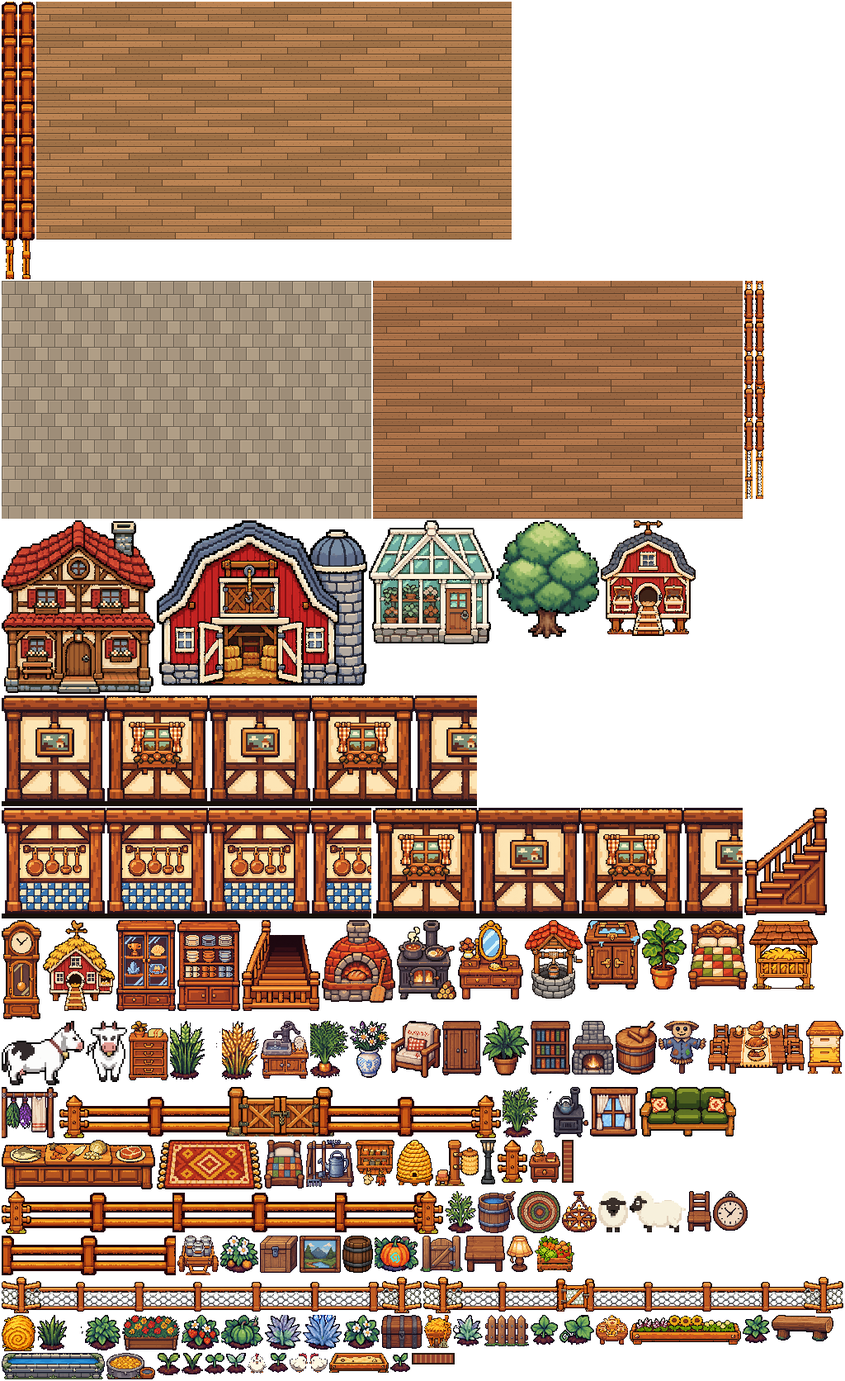
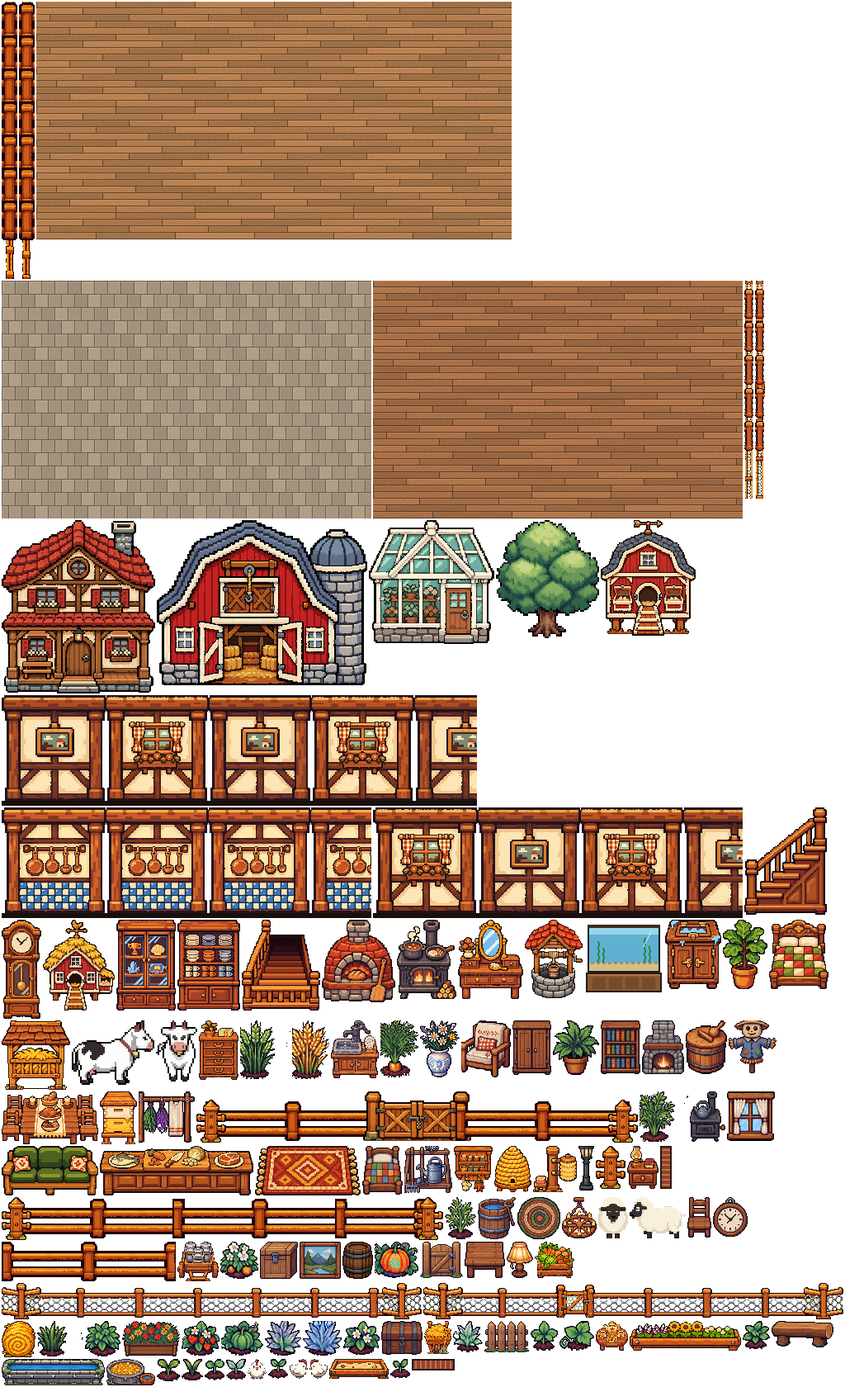
Gia viên: Quản gia bán ô ruộng / bể cá, ruộng 48 ô, bể cá phòng khách
- NPC Quản gia ở khuôn viên mở cửa hàng Gia viên (giá thử): mở thêm 4 ô ruộng, bể cá trong nhà; nhà / đồ vật chờ chốt giá.
- Ruộng 8×6 = 48 ô theo FARM_LAYOUT, mở sẵn 12 ô; client vẽ ô chưa mở, bấm / E theo lưới mới.
- Bể cá phòng khách (hình tạm vẽ bằng code): thả / lấy cá từ kho, cá bơi trong bể, cá trong bể không bị bán.
- Máy chủ: thao tác buy / tank / untank, ô ruộng theo số đã mở; farm.test phủ mua, thả, lấy, chặn sai chỗ.
- Mẫu tin giao thức farm cho bộ vector; xuất lại dữ liệu sim / client, nhập Unity.

Claude-Session: https://claude.ai/code/session_01BAraZUAwW4rMfvXhAWSFDp

diff --git a/apps/server/src/farm.ts b/apps/server/src/farm.ts
@@ -1,5 +1,5 @@
 import {randomInt,randomUUID} from 'node:crypto';
-import {FARM_CROPS,FARM_FISH,FARM_LAYOUT,FARM_ROOMS,FARM_WARDROBE,POND_MAP,chooseFarmFish,growPlot,plotPoint,pondSpotNear,type FarmRoom,type FarmState} from '@havenlord/sim/farm';
+import {FARM_CROPS,FARM_FISH,FARM_LAYOUT,FARM_ROOMS,FARM_SHOP,FARM_TANK,FARM_WARDROBE,POND_MAP,chooseFarmFish,growPlot,plotPoint,pondSpotNear,shopPrice,type FarmRoom,type FarmState} from '@havenlord/sim/farm';
 import {STORY} from '@havenlord/sim/story/story';
 import {VILLAGE_SHOP} from '@havenlord/sim/village';
 import type {ServerMessage} from '@havenlord/protocol';
@@ -70,6 +70,27 @@ export class Farm {
      const item=VILLAGE_SHOP.find(x=>x.id===raw.item);const npc=this.roster().find(n=>n.id===item?.npc);if(!item||!npc||at.map!=='human/town'||!near(npc.x,npc.y,160))throw new Error('Hãy tới đúng quầy hàng');if(coins<item.coins)throw new Error('Không đủ xu');return{value:null,coins:coins-item.coins,...('potions'in item?{potions:item.potions}:{buff:true})};
     }
     if(!s.unlocked||!farmMaps(account).includes(at.map))throw new Error('Chỉ chủ nhà được thao tác trong Gia viên đã mở');
+    if(op==='buy'){
+     // Cửa hàng Quản gia (đứng ở khuôn viên): mở ô ruộng / mua bể cá; máy chủ trừ xu và ghi đồ đã có trong cùng một giao dịch.
+     if(at.map!==homeMap(account)||!near(FARM_LAYOUT.stewardX,FARM_LAYOUT.stewardY,130))throw new Error('Hãy tới gặp Quản gia ở khuôn viên');
+     const it=FARM_SHOP.find(x=>x.id===raw.item);if(!it)throw new Error('Quản gia không bán món này');
+     const owned=s.owned??(s.owned=[]);
+     if(it.id==='plots'&&s.plots.length>=FARM_LAYOUT.plotsMax)throw new Error('Ruộng đã mở hết');
+     if(it.id==='tank'&&owned.includes('tank'))throw new Error('Bạn đã có bể cá');
+     const price=shopPrice(it.id,s);if(coins<price)throw new Error('Không đủ xu');
+     if(it.id==='plots')for(let k=0;k<4;k++)s.plots.push({tilled:false,crop:null,plantedAt:0,lastAt:0,growth:0,watered:false});
+     else owned.push(it.id);
+     return{value:null,coins:coins-price};
+    }
+    if(op==='tank'||op==='untank'){
+     if(!(s.owned??[]).includes('tank'))throw new Error('Hãy mua bể cá ở chỗ Quản gia trước');
+     // Bể cá ở phòng khách: thả cá trong kho vào bể (tối đa FARM_TANK.slots con) hoặc lấy lại về kho; cá trong bể không bị bán.
+     if(at.map!==roomMap(account,'house')||!near(FARM_TANK.x,FARM_TANK.y))throw new Error('Hãy tới bể cá trong phòng khách');
+     const tank=s.tank??(s.tank=[]);
+     if(op==='tank'){const f=FARM_FISH.find(x=>x.id===raw.item);const key=`fish_${f?.id}`;if(!f||!((s.inventory[key]??0)>0))throw new Error('Kho không có con cá này');if(tank.length>=FARM_TANK.slots)throw new Error('Bể đã đầy');s.inventory[key]=(s.inventory[key]??0)-1;tank.push(f.id);}
+     else{const i=Number(raw.plot);if(!Number.isInteger(i)||i<0||i>=tank.length)throw new Error('Bể không có con cá này');const [f]=tank.splice(i,1);s.inventory[`fish_${f}`]=(s.inventory[`fish_${f}`]||0)+1;}
+     return{value:null};
+    }
     if(op==='outfit'){if(at.map!==roomMap(account,'bedroom')||!near(...FARM_WARDROBE))throw new Error('Hãy tới tủ quần áo trong phòng ngủ');if(raw.outfit!=='farmer1'&&raw.outfit!=='gardener')throw new Error('Không có bộ đồ này');s.outfit=raw.outfit;return{value:null};}
     const fishing=op==='cast'||op==='pull';if(fishing&&at.map!==POND_MAP)throw new Error('Hãy ra hồ câu cạnh khuôn viên');if(!fishing&&at.map!==homeMap(account))throw new Error('Hãy ra khuôn viên trước');
     if(op==='sell'){
@@ -88,7 +109,7 @@ export class Farm {
      if(!pondSpotNear(at.x,at.y))throw new Error('Hãy tới chỗ câu bên bờ hồ');if(s.fish&&this.now()<s.fish.expires)throw new Error('Bạn đang câu cá');
      const biteAt=this.now()+3000+Math.floor(this.random()*9001);s.fish={nonce:randomUUID(),biteAt,expires:biteAt+1800,reward:chooseFarmFish(this.now(),this.random())};s.lastAction=this.now();return{value:null};
     }
-    const i=Number(raw.plot);if(!Number.isInteger(i)||i<0||i>=12)throw new Error('Ô ruộng không hợp lệ');const point=plotPoint(i);if(!near(point.x,point.y,105))throw new Error('Hãy tới gần ô ruộng');const p=s.plots[i]!;growPlot(p,this.now());
+    const i=Number(raw.plot);if(!Number.isInteger(i)||i<0||i>=s.plots.length)throw new Error('Ô ruộng chưa mở hoặc không hợp lệ');const point=plotPoint(i);if(!near(point.x,point.y,105))throw new Error('Hãy tới gần ô ruộng');const p=s.plots[i]!;growPlot(p,this.now());
     if(op==='hoe'){if(p.crop)throw new Error('Ô này đang có cây');p.tilled=true;}
     else if(op==='plant'){const c=FARM_CROPS.find(x=>x.id===raw.crop);if(!p.tilled||p.crop||!c)throw new Error('Cần ô đất đã xới và chưa có cây');const key=`seed_${c.id}`;if(!((s.inventory[key]??0)>0))throw new Error('Bạn hết hạt giống này');s.inventory[key]=(s.inventory[key]??0)-1;Object.assign(p,{crop:c.id,plantedAt:this.now(),lastAt:this.now(),growth:0,watered:false});}
     else if(op==='water'){if(!p.crop)throw new Error('Hãy gieo cây trước');p.watered=true;}

diff --git a/packages/sim/src/farm.ts b/packages/sim/src/farm.ts
@@ -19,7 +19,7 @@ export const FARM_FISH = [
 ] as const;
 /** Hồ câu là MAP RIÊNG dùng chung `home/pond` (chủ dự án 12/11: "Hồ câu cá là một map bên cạnh … câu cùng bạn bè"): cổng ở mép nam
  * khuôn viên (`pondGate*`), trong map hồ có cổng về (`pondBack*`) và các chỗ câu dọc bờ tây + đầu cầu (nước ở phía đông người câu). */
-export const FARM_LAYOUT = {tile:32,width:48,height:32,plots:12,plotX:192,plotY:320,doorX:576,doorY:264,exitX:832,exitY:416,
+export const FARM_LAYOUT = {tile:32,width:48,height:32,plots:12,plotsMax:48,plotCols:8,plotX:352,plotY:544,stewardX:780,stewardY:470,doorX:576,doorY:264,exitX:832,exitY:416,
  pondGateX:240,pondGateY:960,pondBackX:96,pondBackY:352,
  pondSpots:[[360,192],[360,288],[480,352],[360,448],[360,544]] as readonly (readonly [number,number])[]};
 export const POND_MAP='home/pond';
@@ -32,14 +32,28 @@ export const FARM_ROOMS = {
  bedroom:{house:[416,358]},
 } as const;
 export const FARM_WARDROBE = [332,158] as const;
+/** Bể cá — món trang trí trong nhà (chủ dự án 12/11: "Bể cá cũng là trang trí trong nhà nhé"): đặt ở phòng khách, thả cá đã câu từ kho
+ * vào để ngắm / sưu tầm, lấy lại được. `water` = vùng nước tính từ chân bể (neo giữa đáy) để client cho cá bơi. Hình bể tạm vẽ bằng code
+ * (`scripts/export-home-maps.mts`), thay bằng hình GPT khi có. */
+export const FARM_TANK = {room:'house',x:492,y:328,slots:6,water:{x0:-38,x1:38,y0:-70,y1:-36}} as const;
+/**
+ * Cửa hàng Gia viên của NPC Quản gia đứng ở khuôn viên (chủ dự án 12/11: "1 npc ở gia viên để mua đồ đạc: mua nhà, mua đồ vật, mua bể cá",
+ * "chỗ trồng cây gia viên nữa cần rộng còn mở ô đất nữa"). GIÁ THỬ — chủ dự án chưa chốt giá; nhà / đồ vật chưa mở bán (chờ chốt giá
+ * và cách đặt đồ). Mở ô ruộng: mỗi lần +4 ô, giá tăng dần theo số lần đã mở.
+ */
+export const FARM_SHOP = [
+ {id:'plots',name:'Mở thêm 4 ô ruộng',coins:150,step:50},
+ {id:'tank',name:'Bể cá trong nhà',coins:500,step:0},
+] as const;
+export function shopPrice(id:string,state:Pick<FarmState,'plots'>):number{const it=FARM_SHOP.find(x=>x.id===id);if(!it)return Infinity;return id==='plots'?it.coins+it.step*Math.max(0,(state.plots.length-FARM_LAYOUT.plots)/4):it.coins;}
 export type FarmRoom = keyof typeof FARM_ROOMS;
 /** Chỗ câu gần nhất trong bán kính `r` px (null = không đứng ở bờ hồ). */
 export function pondSpotNear(x:number,y:number,r=70):readonly [number,number]|null{let best:readonly [number,number]|null=null,d=r;for(const s of FARM_LAYOUT.pondSpots){const k=Math.hypot(x-s[0],y-s[1]);if(k<=d){d=k;best=s;}}return best;}
 export interface FarmPlot {tilled:boolean;crop:string|null;plantedAt:number;lastAt:number;growth:number;watered:boolean}
-export interface FarmState {version:1;visited:string[];unlocked:boolean;plots:FarmPlot[];inventory:Record<string,number>;outfit:'farmer1'|'gardener';fish:{nonce:string;biteAt:number;expires:number;reward:string}|null;lastAction:number;lastEntry?:number}
-export function newFarm():FarmState{return{version:1,visited:[],unlocked:false,plots:Array.from({length:12},()=>({tilled:false,crop:null,plantedAt:0,lastAt:0,growth:0,watered:false})),inventory:{},outfit:'farmer1',fish:null,lastAction:0};}
+export interface FarmState {version:1;visited:string[];unlocked:boolean;plots:FarmPlot[];inventory:Record<string,number>;outfit:'farmer1'|'gardener';fish:{nonce:string;biteAt:number;expires:number;reward:string}|null;lastAction:number;lastEntry?:number;tank?:string[];owned?:string[]}
+export function newFarm():FarmState{return{version:1,visited:[],unlocked:false,plots:Array.from({length:12},()=>({tilled:false,crop:null,plantedAt:0,lastAt:0,growth:0,watered:false})),inventory:{},outfit:'farmer1',fish:null,lastAction:0,tank:[]};}
 export function growPlot(p:FarmPlot,now:number):void {if(!p.crop)return;const c=FARM_CROPS.find(x=>x.id===p.crop);if(!c)return;p.growth=Math.min(c.ms,p.growth+Math.max(0,now-p.lastAt)*(p.watered?1:.5));p.lastAt=Math.max(p.lastAt,now);}
 export function cropStage(p:FarmPlot):number{const c=FARM_CROPS.find(x=>x.id===p.crop);return c?Math.min(3,Math.floor(p.growth/c.ms*4)):0;}
-export function plotPoint(i:number){return{x:FARM_LAYOUT.plotX+(i%4)*32,y:FARM_LAYOUT.plotY+Math.floor(i/4)*32};}
+export function plotPoint(i:number){return{x:FARM_LAYOUT.plotX+(i%FARM_LAYOUT.plotCols)*32,y:FARM_LAYOUT.plotY+Math.floor(i/FARM_LAYOUT.plotCols)*32};}
 export function havenHour(now:number):number{return(now%(48*60000))/(48*60000)*24;}
 export function chooseFarmFish(now:number,roll:number):string{const h=havenHour(now);const list=FARM_FISH.filter(x=>!x.night||h>=20||h<4.5);let n=Math.max(0,Math.min(.999999,roll))*list.reduce((s,x)=>s+x.weight,0);for(const f of list){n-=f.weight;if(n<0)return f.id;}return list[0]!.id;}

diff --git a/apps/server/tests/farm.test.ts b/apps/server/tests/farm.test.ts
@@ -24,7 +24,7 @@ try{
  for(const n of farm.roster()){at={map:'human/town',x:n.x,y:n.y};act('talk',{npc:n.id});}
  assert(store.farm.read(acc).unlocked);assert.equal(Object.values(store.farm.read(acc).inventory).reduce((s,n)=>s+n,0),18);
  act('enter');assert.equal(at.map,homeMap(acc));
- at={map:homeMap(acc),x:192,y:320};act('hoe',{plot:0});assert(store.farm.read(acc).plots[0]!.tilled);
+ at={map:homeMap(acc),x:352,y:544};act('hoe',{plot:0});assert(store.farm.read(acc).plots[0]!.tilled);
  act('plant',{plot:0,crop:'wheat'});assert.equal(store.farm.read(acc).inventory.seed_wheat,2);
  now+=150000;act('harvest',{plot:0});assert(failed());assert.equal(store.farm.read(acc).inventory.farm_wheat,undefined);
  act('water',{plot:0});const watered=store.farm.read(acc).plots[0]!;assert(watered.watered);assert(watered.growth>=75000&&watered.growth<90000);
@@ -50,6 +50,26 @@ try{
  at={map:roomMap(acc,'bedroom'),x:100,y:300};act('outfit',{outfit:'gardener'});assert(failed(),'phải tới tủ');
  at={map:roomMap(acc,'bedroom'),x:332,y:170};act('outfit',{outfit:'gardener'});assert.equal(store.farm.read(acc).outfit,'gardener');
  act('room');assert(failed(),'ra vườn phải qua phòng khách');
+ // Quản gia ở khuôn viên: mở thêm 4 ô ruộng (giá tăng dần), mua bể cá; ô chưa mở không cuốc được; chưa mua bể thì không thả cá.
+ at={map:roomMap(acc,'bedroom'),x:416,y:350};act('go',{room:'house'});at={map:roomMap(acc,'house'),x:492,y:350};act('tank',{item:'crucian'});assert(failed(),'chưa mua bể');
+ at={map:roomMap(acc,'house'),x:320,y:400};act('room');at={map:homeMap(acc),x:352+32*4,y:544+32};act('hoe',{plot:12});assert(failed(),'ô 12 chưa mở');
+ at={map:homeMap(acc),x:600,y:470};act('buy',{item:'plots'});assert(failed(),'phải tới Quản gia');
+ store.farm.run(acc,id,now,(_s,c)=>({value:null,coins:c+1000}));const before=store.ecoOf(id)!.coins;
+ at={map:homeMap(acc),x:780,y:500};act('buy',{item:'plots'});assert.equal(store.farm.read(acc).plots.length,16);assert.equal(store.ecoOf(id)!.coins,before-150);
+ act('buy',{item:'plots'});assert.equal(store.farm.read(acc).plots.length,20);assert.equal(store.ecoOf(id)!.coins,before-150-200);
+ act('buy',{item:'tank'});assert.equal(store.ecoOf(id)!.coins,before-350-500);act('buy',{item:'tank'});assert(failed(),'mua bể 1 lần');
+ store.farm.run(acc,id,now,(_s,c)=>({value:null,coins:c-150}));// trả lại đúng số xu thử đã cộng
+ at={map:homeMap(acc),x:352+32*4,y:544+32};act('hoe',{plot:12});assert(store.farm.read(acc).plots[12]!.tilled);
+ at={map:homeMap(acc),x:576,y:280};act('room');
+ // Bể cá phòng khách: thả cá đã câu vào bể, cá trong bể không bị bán, lấy lại được.
+ at={map:roomMap(acc,'house'),x:200,y:300};act('tank',{item:'crucian'});assert(failed(),'phải tới bể');
+ at={map:roomMap(acc,'house'),x:492,y:350};act('tank',{item:'carp'});assert(failed(),'kho không có cá chép');
+ store.farm.run(acc,id,now,s=>{s.inventory.fish_carp=1;return{value:null};});
+ act('tank',{item:'carp'});assert.deepEqual(store.farm.read(acc).tank,['carp']);assert.equal(store.farm.read(acc).inventory.fish_carp,0);
+ act('untank',{plot:0});assert.deepEqual(store.farm.read(acc).tank,[]);assert.equal(store.farm.read(acc).inventory.fish_carp,1);
+ act('tank',{item:'carp'});assert.deepEqual(store.farm.read(acc).tank,['carp']);
+ at={map:roomMap(acc,'house'),x:320,y:400};act('room');at={map:homeMap(acc),x:736,y:352};act('sell');assert(failed(),'cá trong bể không bị bán');assert.deepEqual(store.farm.read(acc).tank,['carp']);
+ at={map:roomMap(acc,'bedroom'),x:416,y:350};
  at={map:roomMap(acc,'bedroom'),x:416,y:350};act('go',{room:'house'});assert.equal(at.map,roomMap(acc,'house'));
  at={map:roomMap(acc,'house'),x:320,y:400};act('room');assert.equal(at.map,homeMap(acc));
  farm.handle(guest,acc2,{op:'hoe',plot:0});assert.equal(store.farm.read(acc2).plots[0]!.tilled,false);

diff --git a/packages/sim/src/village.ts b/packages/sim/src/village.ts
@@ -6,6 +6,8 @@ export const VILLAGE_NPCS:Record<string,NpcDef>={
  village_weapon:{name:'Ren',title:'Người bán vũ khí',sprite:'npc_aldric_001',region:'human',at:{spot:'plaza',dx:260,dy:40},ages:[16,99],stationary:true,idle:['Chọn đúng món của nghề mình. Đừng để một thanh kiếm đẹp quyết định thay cậu sẽ trở thành ai.']},
  village_food:{name:'Mai',title:'Người bán đồ ăn',sprite:'npc_elin_001',region:'human',at:{spot:'plaza',dx:260,dy:180},ages:[16,99],stationary:true,idle:['Ăn một bữa ấm rồi hãy ra đường. Món hầm của ta giúp cậu vững tay trong chuyến đi.']},
  village_heal:{name:'Lan',title:'Người bán vật phẩm hồi phục',sprite:'npc_ysolde_001',region:'human',at:{spot:'church',dx:96,dy:100},ages:[16,99],stationary:true,idle:['Đừng đợi kiệt sức mới nhớ mang thuốc. Ta vẫn giữ sổ tên những người chưa quay về.']},
+ // Quản gia Gia viên: bán mở ô ruộng / bể cá (sau: nhà, đồ vật). Hình TẠM mượn Bram — cần vẽ NPC riêng bằng PixelLab (chốt 12/11).
+ village_steward:{name:'Bác Tôn',title:'Quản gia Gia viên',sprite:'npc_bram_001',region:'home',at:{spot:'steward'},ages:[16,99],stationary:true,idle:['Muốn mở thêm ruộng hay sắm bể cá thì cứ nói, ta lo cho.']},
  village_event:{name:'Iris',title:'Sứ giả sự kiện',sprite:'npc_silver_youth_f',region:'human',at:{spot:'plaza',dx:390,dy:110},ages:[16,99],stationary:true,idle:['Ta mang tin giữa các vùng. Dù chưa có hội lễ, cậu vẫn có thể ghé hỏi thăm; việc nhận nhà không phải đợi sự kiện.']},
 };
 export const VILLAGE_SHOP=[

diff --git a/UnityGame/Assets/HavenLord/Client/GameController.Farm.cs b/UnityGame/Assets/HavenLord/Client/GameController.Farm.cs
@@ -89,7 +89,8 @@ namespace HavenLord.Client
             farmPoll += dt;
             if (farmPoll >= 4) { farmPoll = 0; FarmSend("get"); }
             if (!InFarm) return;
-            if (FarmState != null && farmDrawn != FarmVersion) { DrawFarmPlots(); RefreshFarmBody(); farmDrawn = FarmVersion; }
+            if (FarmState != null && farmDrawn != FarmVersion) { DrawFarmPlots(); DrawFishTank(); RefreshFarmBody(); farmDrawn = FarmVersion; }
+            SwimTankFish();
             if (farmView == null) return;
             if (!FarmBusy)
             {
@@ -122,6 +123,7 @@ namespace HavenLord.Client
                 if (farmView != null) Destroy(farmView.gameObject);
                 farmView = null; player.View.gameObject.SetActive(true);
                 if (farmPlots != null) Destroy(farmPlots);
+                if (farmTank != null) Destroy(farmTank);
                 ClearFishingLine();
                 return;
             }
@@ -169,9 +171,15 @@ namespace HavenLord.Client
             if (map?.def.id != "garden" || !(FarmState?["plots"] is JArray plots)) return;
             farmPlots = new GameObject("Ruộng 32px");farmPlots.transform.SetParent(map.transform, false);
             var crops = sim.Modules["farm"]["FARM_CROPS"] as JArray;
+            for (var i = plots.Count; i < PlotsMax; i++)
+            {
+                var (lx, ly) = PlotPos(i);
+                var locked = new GameObject("Ô chưa mở " + i).AddComponent<SpriteRenderer>();locked.transform.SetParent(farmPlots.transform, false);locked.transform.localPosition = WorldCoords.PxToWorld(lx, ly);
+                locked.sprite = SoilSprite();locked.sortingOrder = -150;locked.color = new Color(.55f, .62f, .45f, .22f);
+            }
             for (var i = 0; i < plots.Count; i++)
             {
-                var p = plots[i]; var x = 192 + i % 4 * 32; var y = 320 + i / 4 * 32;
+                var p = plots[i]; var (x, y) = PlotPos(i);
                 var soil = new GameObject("Ô ruộng " + i).AddComponent<SpriteRenderer>();soil.transform.SetParent(farmPlots.transform, false);soil.transform.localPosition = WorldCoords.PxToWorld(x, y);
                 soil.sprite = SoilSprite();soil.sortingOrder = -150;
                 soil.color = (bool)p["tilled"] ? (bool)p["watered"] ? new Color(.65f, .66f, .75f, 1) : Color.white : new Color(.7f, .72f, .6f, .35f);
@@ -180,6 +188,67 @@ namespace HavenLord.Client
                 var stage = Math.Min(3, (int)((double)p["growth"] / ms * 4));
                 var sprite = database.homeProps?.Find($"farm_crop_{crop}_{stage}")?.sprite;
                 var plant = new GameObject("Cây " + crop).AddComponent<SpriteRenderer>();plant.transform.SetParent(farmPlots.transform, false);plant.transform.localPosition = WorldCoords.PxToWorld(x, y - 2);plant.transform.localScale = new Vector3(.5f, .5f, 1);plant.sprite = sprite;
+            }
+        }
+
+        // Ruộng theo sim FARM_LAYOUT: lưới plotCols cột từ (plotX, plotY), mở dần tới plotsMax ô qua Quản gia.
+        private JToken Layout => sim.Modules["farm"]["FARM_LAYOUT"];
+        private int PlotCols => (int?)Layout?["plotCols"] ?? 8;
+        private int PlotsMax => (int?)Layout?["plotsMax"] ?? 48;
+        private (float x, float y) PlotPos(int i) => ((float)((double?)Layout?["plotX"] ?? 352) + i % PlotCols * 32, (float)((double?)Layout?["plotY"] ?? 544) + i / PlotCols * 32);
+        private int PlotCount => (FarmState?["plots"] as JArray)?.Count ?? 0;
+        private Vector2 Steward => new Vector2((float)((double?)Layout?["stewardX"] ?? 780), (float)((double?)Layout?["stewardY"] ?? 470));
+
+        /// <summary>Quản gia ở khuôn viên: mở bảng cửa hàng Gia viên (mở ô ruộng, bể cá).</summary>
+        public void OpenSteward()
+        {
+            VillageKey = "village_steward";
+            FarmSend("get");
+            hud.Panels.Show(Panels.Kind.Farm);
+        }
+
+        // ---- Bể cá phòng khách (sim FARM_TANK): chỉ hiện khi đã mua; cá trong bể bơi qua lại, lật khi đổi hướng, nhấp nhô ----
+        private GameObject farmTank;
+        private readonly List<(SpriteRenderer sr, float speed, float phase)> tankFish = new List<(SpriteRenderer, float, float)>();
+        private JToken Tank => sim.Modules["farm"]["FARM_TANK"];
+        public bool OwnsTank => (FarmState?["owned"] as JArray)?.Any(x => (string)x == "tank") == true;
+
+        private void DrawFishTank()
+        {
+            if (farmTank != null) Destroy(farmTank);
+            tankFish.Clear();
+            if (map?.def.id != "house" || !OwnsTank) return;
+            var tx = (float)(double)Tank["x"]; var ty = (float)(double)Tank["y"];
+            farmTank = new GameObject("Bể cá");farmTank.transform.SetParent(map.transform, false);
+            var body = farmTank.AddComponent<SpriteRenderer>();body.sprite = map.def.propCatalog?.Find("gv_be_ca")?.sprite;body.spriteSortPoint = SpriteSortPoint.Pivot;
+            farmTank.transform.localPosition = WorldCoords.PxToWorld(tx, ty);
+            var list = FarmState?["tank"] as JArray ?? new JArray();
+            for (var i = 0; i < list.Count; i++)
+            {
+                var icon = hud.Set("items")?.Get("fish_" + (string)list[i]);
+                if (icon == null) continue;
+                var f = new GameObject("Cá " + list[i]).AddComponent<SpriteRenderer>();f.transform.SetParent(farmTank.transform, false);
+                f.sprite = icon;f.sortingOrder = 1;
+                var k = 18f / Mathf.Max(icon.rect.width, icon.rect.height);f.transform.localScale = new Vector3(k, k, 1);
+                tankFish.Add((f, 10 + i * 3.7f % 9, i * 1.9f));
+            }
+        }
+
+        private void SwimTankFish()
+        {
+            if (farmTank == null || tankFish.Count == 0) return;
+            var w = Tank["water"];
+            float x0 = (float)(double)w["x0"] + 8, x1 = (float)(double)w["x1"] - 8, y0 = (float)(double)w["y0"] + 6, y1 = (float)(double)w["y1"] - 6;
+            var t = Time.time;
+            for (var i = 0; i < tankFish.Count; i++)
+            {
+                var (sr, speed, phase) = tankFish[i];
+                var u = Mathf.PingPong(t * speed / (x1 - x0) + phase, 1);
+                var dir = Mathf.Sign(Mathf.Cos((t * speed / (x1 - x0) + phase) * Mathf.PI));
+                var px = Mathf.Lerp(x0, x1, u);
+                var py = Mathf.Lerp(y0, y1, (i + .5f) / tankFish.Count) + Mathf.Sin(t * 2 + phase) * 1.5f;
+                sr.flipX = dir < 0;
+                sr.transform.localPosition = WorldCoords.PxToWorld(px, py) - WorldCoords.PxToWorld(0, 0);
             }
         }
 
@@ -223,8 +292,15 @@ namespace HavenLord.Client
                 if (NearPondSpot(me)) FarmFish(); else hud.Toast("Hãy tới chỗ câu bên bờ hồ", "info");
                 return;
             }
-            var col = Mathf.RoundToInt((at.x - 192) / 32);var row = Mathf.RoundToInt((at.y - 320 + 10) / 32);
-            if (col >= 0 && col < 4 && row >= 0 && row < 3) { FarmPlotAction(row * 4 + col); return; }
+            if (Vector2.Distance(at, Steward) < 60 && Vector2.Distance(me, Steward) < 130) { OpenSteward(); return; }
+            var (px0, py0) = PlotPos(0);
+            var col = Mathf.RoundToInt((at.x - px0) / 32);var row = Mathf.RoundToInt((at.y - py0 + 10) / 32);
+            if (col >= 0 && col < PlotCols && row >= 0 && row * PlotCols + col < PlotsMax)
+            {
+                if (row * PlotCols + col < PlotCount) FarmPlotAction(row * PlotCols + col);
+                else hud.Toast("Ô đất chưa mở · gặp Quản gia để mở thêm", "info");
+                return;
+            }
             if (Vector2.Distance(at, PondGate) < 90) { FarmSend("pond"); return; }
             if (Vector2.Distance(at, new Vector2(576, 264)) < 90) { FarmSend("room"); return; }
             if (Vector2.Distance(at, new Vector2(736, 352)) < 75) { FarmSend("sell"); return; }
@@ -243,14 +319,17 @@ namespace HavenLord.Client
             }
             if (Vector2.Distance(me, PondGate) < 100) { FarmSend("pond"); return; }
             if (Math.Abs(player.X - 576) < 100 && Math.Abs(player.Y - 264) < 100) { FarmSend("room"); return; }
-            var nearest = Enumerable.Range(0, 12).OrderBy(i => Math.Pow(player.X - (192 + i % 4 * 32), 2) + Math.Pow(player.Y - (320 + i / 4 * 32), 2)).First();
+            if (Vector2.Distance(me, Steward) < 110) { OpenSteward(); return; }
+            if (PlotCount == 0) return;
+            var nearest = Enumerable.Range(0, PlotCount).OrderBy(i => Math.Pow(player.X - PlotPos(i).x, 2) + Math.Pow(player.Y - PlotPos(i).y, 2)).First();
             FarmPlotAction(nearest);
         }
 
         public void FarmPlotAction(int i)
         {
-            if (!InFarm || FarmBusy || !(FarmState?["plots"] is JArray plots) || i < 0 || i >= 12) return;
-            if (Math.Sqrt(Math.Pow(player.X - (192 + i % 4 * 32), 2) + Math.Pow(player.Y - (320 + i / 4 * 32), 2)) > 105) { hud.Toast("Hãy bước tới gần ô ruộng", "info"); return; }
+            if (!InFarm || FarmBusy || !(FarmState?["plots"] is JArray plots) || i < 0 || i >= plots.Count) return;
+            var (ppx, ppy) = PlotPos(i);
+            if (Math.Sqrt(Math.Pow(player.X - ppx, 2) + Math.Pow(player.Y - ppy, 2)) > 105) { hud.Toast("Hãy bước tới gần ô ruộng", "info"); return; }
             var p = plots[i];
             var op = !(bool)p["tilled"] ? "hoe" : p["crop"].Type == JTokenType.Null ? "plant" : !(bool)p["watered"] ? "water" : "harvest";
             StartCoroutine(FarmAction(op, i));
@@ -262,7 +341,7 @@ namespace HavenLord.Client
             FarmBusy = true;
             var anim = op == "harvest" ? "plant" : op;
             var dir = player.View.Direction;
-            if (plot.HasValue) dir = GameInput.DirectionOf((float)(192 + plot.Value % 4 * 32 - player.X), (float)(320 + plot.Value / 4 * 32 - player.Y));
+            if (plot.HasValue) dir = GameInput.DirectionOf((float)(PlotPos(plot.Value).x - player.X), (float)(PlotPos(plot.Value).y - player.Y));
             farmView.Speed = 1;
             if (op == "fish") farmView.PlaySegment("fish", Dir8.E, "cast");
             else farmView.PlayAttack(anim, dir, dir != Dir8.W && dir != Dir8.SW);

diff --git a/UnityGame/Assets/HavenLord/Client/UI/Panels.Farm.cs b/UnityGame/Assets/HavenLord/Client/UI/Panels.Farm.cs
@@ -34,6 +34,20 @@ namespace HavenLord.Client.UI
                 var npc = game.Population.NpcDefOf(key);
                 FarmText("Tên", $"{npc?.Name} · {npc?.Title}", 0, 32, 20);
                 FarmText("Thoại", npc?.Idle?.FirstOrDefault() ?? "Rất vui được gặp cậu.", 45, 70);
+                if (key == "village_steward")
+                {
+                    // Cửa hàng Quản gia — giá thử (sim FARM_SHOP), máy chủ trừ xu; nhà / đồ vật chờ chốt giá và cách đặt đồ.
+                    var plotsNow = (state["plots"] as JArray)?.Count ?? 0;var layout = game.Sim.Modules["farm"]["FARM_LAYOUT"];var max = (int?)layout?["plotsMax"] ?? 48;var start = (int?)layout?["plots"] ?? 12;
+                    var shop = game.Sim.Modules["farm"]["FARM_SHOP"] as JArray;
+                    int Price(string id) { var it = shop?.FirstOrDefault(x => (string)x["id"] == id); return it == null ? 0 : (int)it["coins"] + (id == "plots" ? (int)it["step"] * Math.Max(0, (plotsNow - start) / 4) : 0); }
+                    FarmButton("Ruộng", plotsNow >= max ? $"Ruộng đã mở hết {max} ô" : $"Mở 4 ô ruộng · {Price("plots")} xu ({plotsNow}/{max})", 0, 135, () => game.FarmSend("buy", item: "plots"), plotsNow < max);
+                    FarmButton("BểCá", game.OwnsTank ? "Đã có bể cá trong nhà" : $"Bể cá trong nhà · {Price("tank")} xu", 256, 135, () => game.FarmSend("buy", item: "tank"), !game.OwnsTank);
+                    FarmButton("Nhà", "Nhà Gia viên · sắp mở", 512, 135, () => { }, false);
+                    FarmButton("ĐồVật", "Đồ vật trang trí · sắp mở", 768, 135, () => { }, false);
+                    FarmText("GiáThử", "Giá đang là giá thử. Nhà và đồ vật sẽ mở bán khi chốt giá và cách đặt đồ trong nhà.", 185, 50);
+                    FarmButton("Về", "Cư dân / Gia viên", 0, 240, () => game.ShowFarm());
+                    return;
+                }
                 if (key == "village_food") FarmButton("Món", "Món hầm · 30 xu", 0, 135, () => game.FarmSend("service", item: "village_food"));
                 else if (key == "village_heal") FarmButton("Thuốc", "Túi thuốc · 12 xu", 0, 135, () => game.FarmSend("service", item: "village_heal"));
                 else if (key == "village_event") FarmText("Sự kiện", "Chưa có sự kiện đang diễn ra. Bạn đã có thể làm quen Iris để nhận Gia viên.", 135, 60);
@@ -54,7 +68,7 @@ namespace HavenLord.Client.UI
             FarmButton("Nhà", game.InFarm ? "Về Thistlewood" : "Về Gia viên", 0, 46, () => { Close();game.FarmSend(game.InFarm ? "leave" : "enter"); });
             if (game.InFarm)
             {
-                FarmButton("Cửa", game.Map.id == "house" ? "Ra khuôn viên" : "Vào nhà (tới cửa)", 256, 46, () => { Close();game.FarmSend("room"); });
+                FarmButton("Cửa", game.Map.id == "house" ? "Ra khuôn viên" : "Vào nhà (tới cửa)", 256, 46, () => { Close();game.FarmSend("room"); }, game.Map.id == "house" || game.Map.id == "garden");
                 FarmButton("Bán", "Gửi nông sản / cá (tới hộp)", 512, 46, () => { Close();game.FarmSend("sell"); });
             }
             FarmText("Hướng dẫn", "Bấm ô ruộng hoặc E khi đứng gần: cuốc → gieo → tưới → thu. Bấm đầu cầu / E để câu, đợi phao giật rồi bấm lại để kéo.", 96, 55);
@@ -65,12 +79,25 @@ namespace HavenLord.Client.UI
                 FarmButton("Hạt" + id, $"{c["name"]} · {n} hạt" + (game.FarmCrop == id ? " ✓" : ""), i % 3 * 256, 165 + i / 3 * 48, () => { game.FarmCrop = id;Refresh(); });
             }
             FarmText("Kho", "Kho: " + string.Join(" · ", (state["inventory"] as JObject)?.Properties().Where(p => (int)p.Value > 0 && !p.Name.StartsWith("seed_", StringComparison.Ordinal)).Select(p => $"{FarmItemName(p.Name)} ×{p.Value}") ?? Enumerable.Empty<string>()), 270, 60);
-            if (game.InFarm && game.Map.id == "house")
+            if (game.InFarm && game.Map.id == "bedroom")
             {
                 FarmButton("Nông gia", "Mặc bộ Nông gia (tới tủ)", 0, 350, () => game.FarmSend("outfit", outfit: "farmer1"));
                 FarmButton("Thợ vườn", "Mặc bộ Thợ vườn (tới tủ)", 256, 350, () => game.FarmSend("outfit", outfit: "gardener"));
-                FarmText("Bếp", "Nấu ăn sẽ bổ sung sau đợt trồng trọt / câu cá này.", 410);
             }
+            else if (game.InFarm && game.Map.id == "house")
+            {
+                if (!game.OwnsTank) FarmText("Bể", "Chưa có bể cá · mua ở chỗ Quản gia ngoài khuôn viên.", 350);
+                else
+                {
+                    // Bể cá: thả cá trong kho vào bể (đứng cạnh bể), bấm cá trong bể để lấy lại.
+                    var tank = state["tank"] as JArray ?? new JArray();
+                    FarmText("Bể", $"Bể cá · {tank.Count}/6 con · đứng cạnh bể để thả / lấy cá", 340);
+                    var fish = (state["inventory"] as JObject)?.Properties().Where(p => p.Name.StartsWith("fish_", StringComparison.Ordinal) && (int)p.Value > 0).ToArray() ?? new JProperty[0];
+                    for (var i = 0; i < fish.Length && i < 6; i++) { var id = fish[i].Name.Substring(5); FarmButton("Thả" + id, $"Thả {FarmItemName(fish[i].Name)}", i % 3 * 256, 372 + i / 3 * 44, () => game.FarmSend("tank", item: id)); }
+                    for (var i = 0; i < tank.Count; i++) { var idx = i; FarmButton("Lấy" + i, $"Lấy {FarmItemName("fish_" + tank[i])}", 768, 372 + i * 44, () => game.FarmSend("untank", plot: idx)); }
+                }
+            }
+            else if (game.InFarm && game.Map.id == "kitchen") FarmText("Bếp", "Nấu ăn sẽ bổ sung sau đợt trồng trọt / câu cá này.", 350);
             else if (!game.InFarm && crops != null)
             {
                 FarmText("Mua hạt", "Mua thêm tại quầy Bram · giá thử, chưa chốt cân bằng:", 335);

diff --git a/UnityGame/Assets/HavenLord/Client/AutoTest.Farm.cs b/UnityGame/Assets/HavenLord/Client/AutoTest.Farm.cs
@@ -44,7 +44,7 @@ namespace HavenLord.Client
             yield return new WaitForSeconds(1);
             if (game.Map?.id != "garden" || game.FarmView == null || game.FarmView.HeadId == null) { Fail("Không vào được Gia viên / thiếu đầu ghép"); yield break; }
             yield return Shot("farm-1-khuon-vien");
-            yield return FarmWalk(game, 192, 352);
+            yield return FarmWalk(game, 352, 576);
             foreach (var op in new[] { "hoe", "plant", "water" })
             {
                 var routine = StartCoroutine(game.FarmAction(op, 0));

diff --git a/docs/ke-hoach-nha-rieng.md b/docs/ke-hoach-nha-rieng.md
@@ -428,3 +428,4 @@ Sa mạc xương rồng quả + chà là (cây ăn quả) · Băng giá dâu tuy
   - **Nhà 3 phòng, mỗi phòng một map** (chủ dự án 12/11: "Nhà là đủ phòng mà chứ không phải tất cả trong 1 phòng"; đúng chốt 11/11 và bố cục ảnh ghép thử): phòng khách 18 × 9 (`home/<tk>_inside`, lối ra vườn cạnh dưới, cửa trái sang bếp, cầu thang gỗ góc phải lên tầng), bếp 14 × 9 (`_kitchen`, sàn đá lát, tường ốp gạch, điểm nấu ăn), phòng ngủ tầng 2 14 × 9 (`_bedroom`, lỗ cầu thang xuống, tủ quần áo đổi bộ đồ ở nhà). Sàn vẽ bằng code + dải tường GPT + thảm chùi chân ở cửa nướng vào nền (decal); đồ GPT đợt 2 / 3 / 4 + đồ PixelLab Gia viên đúng vị trí ảnh ghép thử. Máy chủ: thao tác `go` sang phòng chỉ khi đứng đúng cửa / cầu thang (`FARM_ROOMS`), ra vườn chỉ từ phòng khách, đổi đồ chỉ ở tủ phòng ngủ; gửi kèm điểm đến để bước qua cửa đứng đúng chỗ. `farm.test` phủ đi bếp / phòng ngủ / đổi đồ / chặn sai cửa.
   - **CHỐT 12/11 — HỒ CÂU LÀ MAP RIÊNG DÙNG CHUNG** (chủ dự án: "Hồ câu cá là một map bên cạnh nhé k chung map với gia viên cá nhân", "Vì câu cá có thể câu cùng bạn bè"): bỏ hồ khỏi khuôn viên; map `home/pond` một bản cho mọi người đã mở Gia viên (người cùng map thấy nhau), vào bằng cổng mép nam khuôn viên (240, 640), về bằng cổng bờ tây (96, 352). Hồ phía đông (động tác câu vẽ hướng E), 5 chỗ câu dọc bờ + đầu cầu gỗ (`FARM_LAYOUT.pondSpots`); máy chủ chặn câu ngoài hồ / ngoài chỗ câu, rời hồ huỷ lượt câu đang dở. `farm.test` qua. Mời bạn / phòng hồ riêng theo nhóm: để sau.
   - Chưa: chạy AutoTest Gia viên trên máy chủ thử 3201, build bản chơi; chuồng / bãi quây có con vật, nhà Gia viên mua được (đợt 7 / 10) và nội thất 16 nhà; tiệm / quán rượu / ngân hàng vào được. 0%.
+  - **12/11 — Quản gia + ruộng mở rộng + bể cá** (chủ dự án: "1 npc ở gia viên để mua đồ đạc: mua nhà, mua đồ vật, mua bể cá", "chỗ trồng cây gia viên nữa cần rộng còn mở ô đất nữa", "Bể cá nữa nhé"): NPC Quản gia (`village_steward`, đứng ở khuôn viên) mở cửa hàng Gia viên — mở thêm 4 ô ruộng (giá thử 150 xu, +50 mỗi lần), bể cá trong nhà (giá thử 500 xu); nhà và đồ vật hiện "sắp mở" (chờ chốt giá + cách đặt đồ). Ruộng 8 × 6 = 48 ô ở góc tây nam khuôn viên, mở sẵn 12 ô, ô chưa mở vẽ mờ. Bể cá phòng khách (hình tạm vẽ bằng code, thay bằng hình GPT khi có): thả tối đa 6 con cá từ kho, cá bơi qua lại, lấy lại được, cá trong bể không bị bán. Máy chủ giữ mua / thả / lấy (`farm.test` phủ). **Hình Quản gia đang MƯỢN Bram** — chủ dự án 12/11: "Npc cần đa dạng lên cứ dùng 1 người thế" → vẽ Quản gia riêng bằng PixelLab (Pro, ảnh NPC tóc trắng làm chuẩn nét, không đội mũ, ~14 lượt); tài khoản thử trong phiên bị khoá lượt miễn phí, cần dùng token trả phí #1. 0%.
